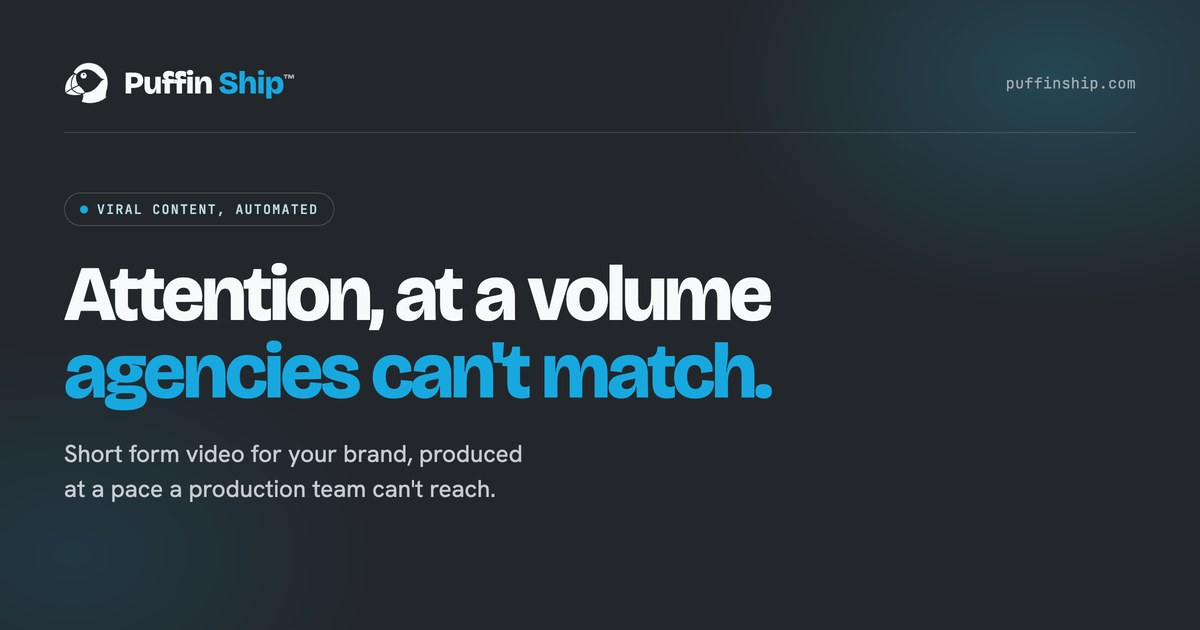
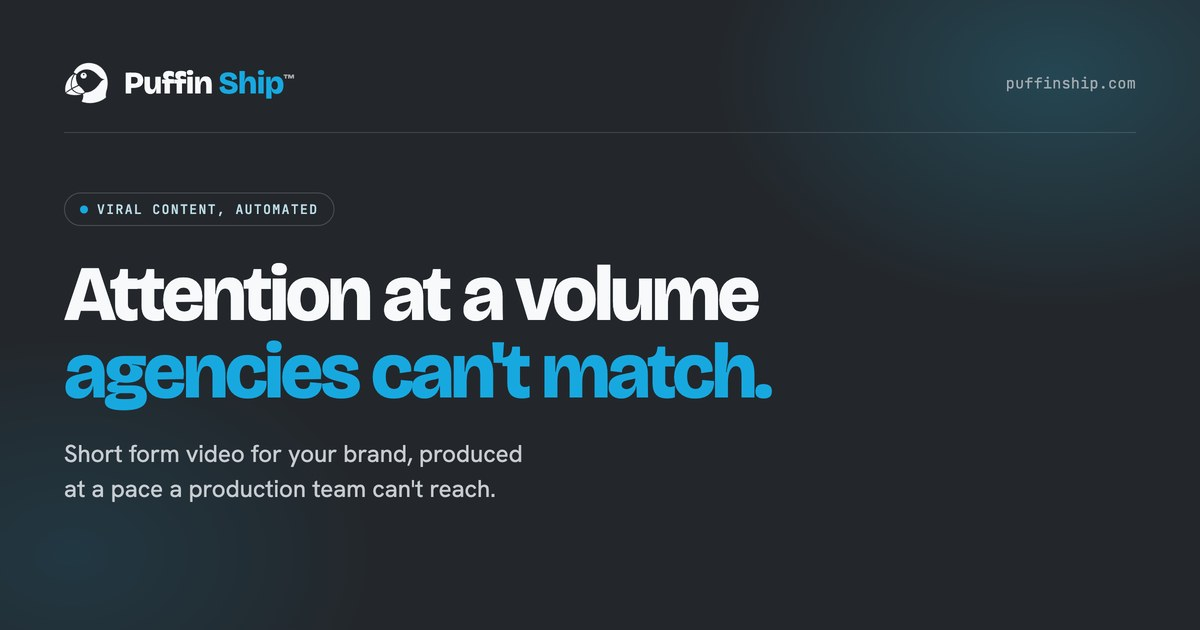
Lean into platform access and the API, and cut a repeated claim

Changed region(s): [[0.3083, 0.4222, 0.6475, 0.5429]]

diff --git a/index.html b/index.html
@@ -50,18 +50,18 @@
   <meta property="og:title" content="Puffin Ship: Viral Content, Automated" />
   <meta property="og:description" content="We produce short form video for your brand at a volume agencies can't match, using a production platform we built ourselves. Tell us what you need and we'll come back with pricing." />
   <meta property="og:url" content="https://puffinship.com/" />
-  <meta property="og:image" content="https://puffinship.com/assets/og-image.jpg?v=4" />
+  <meta property="og:image" content="https://puffinship.com/assets/og-image.jpg?v=5" />
   <meta property="og:image:type" content="image/jpeg" />
   <meta property="og:image:width" content="1200" />
   <meta property="og:image:height" content="630" />
-  <meta property="og:image:alt" content="Puffin Ship: attention, at a volume agencies can't match. Short form video for your brand, produced at a pace a production team can't reach." />
+  <meta property="og:image:alt" content="Puffin Ship: attention at a volume agencies can't match. Short form video for your brand, produced at a pace a production team can't reach." />
 
   <!-- Twitter / X -->
   <meta name="twitter:card" content="summary_large_image" />
   <meta name="twitter:title" content="Puffin Ship: Viral Content, Automated" />
   <meta name="twitter:description" content="We produce short form video for your brand at a volume agencies can't match, using a production platform we built ourselves. Tell us what you need and we'll come back with pricing." />
-  <meta name="twitter:image" content="https://puffinship.com/assets/og-image.jpg?v=4" />
-  <meta name="twitter:image:alt" content="Puffin Ship: attention, at a volume agencies can't match. Short form video for your brand, produced at a pace a production team can't reach." />
+  <meta name="twitter:image" content="https://puffinship.com/assets/og-image.jpg?v=5" />
+  <meta name="twitter:image:alt" content="Puffin Ship: attention at a volume agencies can't match. Short form video for your brand, produced at a pace a production team can't reach." />
 
   <!-- Business contact info, plainly stated for crawlers/AI agents that read meta tags -->
   <meta property="business:contact_data:email" content="info@puffinship.com" />
@@ -427,6 +427,10 @@
       font-size: 17px; line-height: 1.65; color: var(--text-body);
       margin: 0; text-wrap: pretty;
     }
+    .aside-note {
+      font-size: 15px; line-height: 1.6; color: var(--text-muted);
+      margin: 12px 0 0; text-wrap: pretty;
+    }
     @media (max-width: 880px) {
       .aside-band { padding: 44px var(--space-5) 4px; }
       .aside-inner { grid-template-columns: 1fr; gap: 14px; padding-top: 32px; }
@@ -478,7 +482,7 @@
     .features-dark { background: var(--ink-900); color: var(--paper); }
     .features-head { display: flex; justify-content: space-between; align-items: flex-end; margin-bottom: 40px; gap: var(--space-6); flex-wrap: wrap; }
     .features-h2 { font-family: var(--font-display); font-weight: 700; font-size: clamp(26px,3vw,38px); letter-spacing: -0.025em; margin: 12px 0 0; max-width: 21ch; line-height: 1.1; }
-    .features-grid { display: grid; grid-template-columns: repeat(4,1fr); gap: 1px; background: rgba(247,249,251,0.1); border-radius: var(--radius-lg); overflow: hidden; }
+    .features-grid { display: grid; grid-template-columns: repeat(3,1fr); gap: 1px; background: rgba(247,249,251,0.1); border-radius: var(--radius-lg); overflow: hidden; }
     @media (max-width: 1040px) { .features-grid { grid-template-columns: repeat(2,1fr); } }
     .feat-tile { background: var(--ink-900); padding: 26px; }
     .feat-icon { color: var(--orange-400); display: flex; margin-bottom: 14px; }
@@ -614,7 +618,7 @@
         <span class="live-dot"></span>
         Viral content, automated.
       </div>
-      <h1 class="hero-h1">Attention, at a volume <span>agencies can't match.</span></h1>
+      <h1 class="hero-h1">Attention at a volume <span>agencies can't match.</span></h1>
       <p class="hero-body">We produce short form video for your brand at a pace a production team can't reach, and we keep it coming. More content in a month than most brands ship in a year, all of it made on a platform we built ourselves.</p>
       <div class="hero-actions">
         <a href="#contact" class="btn btn-primary btn-lg">
@@ -710,11 +714,6 @@
           <h3 class="feat-title">Your rules, applied every time</h3>
           <p class="feat-desc">We set your brand's rules once and every video follows them. No drift, no re-briefing, no explaining your brand again next month.</p>
         </div>
-        <div class="feat-tile">
-          <div class="feat-icon"><svg width="24" height="24" viewBox="0 0 24 24" fill="none" stroke="currentColor" stroke-width="1.8" stroke-linecap="round" stroke-linejoin="round"><rect x="2" y="7" width="20" height="15" rx="2"/><polyline points="17 2 12 7 7 2"/></svg></div>
-          <h3 class="feat-title">Nothing ships unreviewed</h3>
-          <p class="feat-desc">Every video passes a review step before it reaches you or your audience. Volume never comes at the cost of putting something wrong in front of your customers.</p>
-        </div>
       </div>
     </div>
   </section>
@@ -724,9 +723,12 @@
     <div class="aside-inner">
       <div>
         <div class="eyebrow">Integration</div>
-        <h2 class="aside-h2">It fits how you already work</h2>
+        <h2 class="aside-h2">Use it yourself, or let us run it</h2>
       </div>
-      <p class="aside-body">We shape delivery around your process instead of asking you to change it. Video arrives where your team already works, and when it helps, our platform can connect to your own systems so the whole thing runs inside your pipeline.</p>
+      <div>
+        <p class="aside-body">Most brands hand the whole thing to us. If your team would rather drive, we can give you access to the platform itself, and there is an API for wiring it into the systems you already run. Either way the work fits your process instead of asking you to change it.</p>
+        <p class="aside-note">Access is set up by us, so tell us what your team needs when you get in touch.</p>
+      </div>
     </div>
   </section>
 
